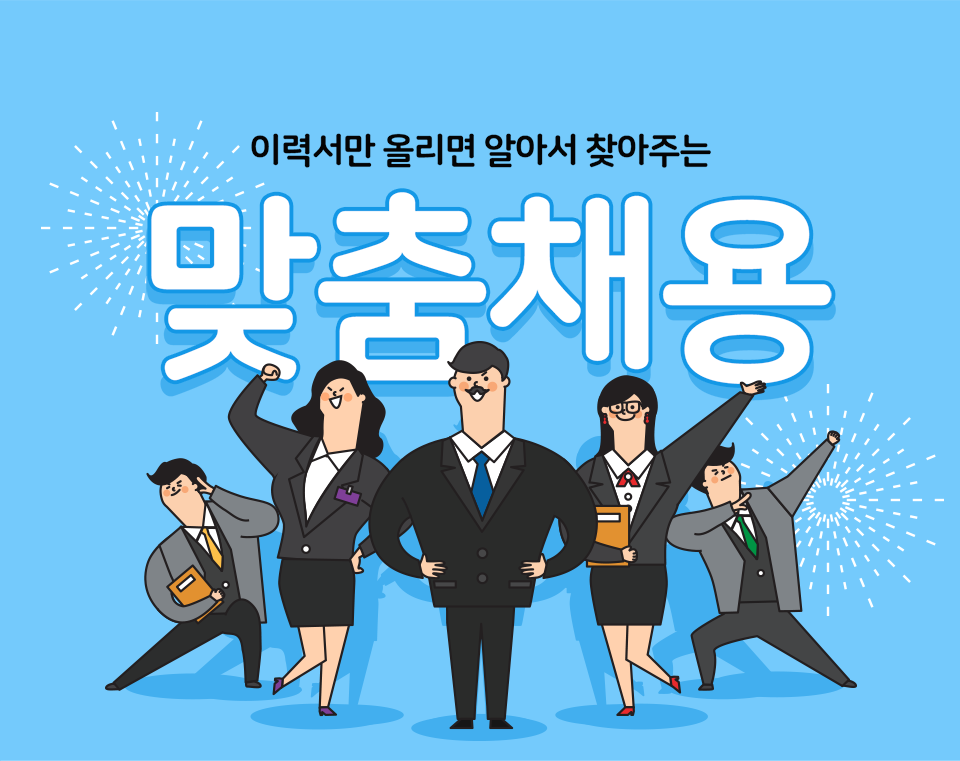
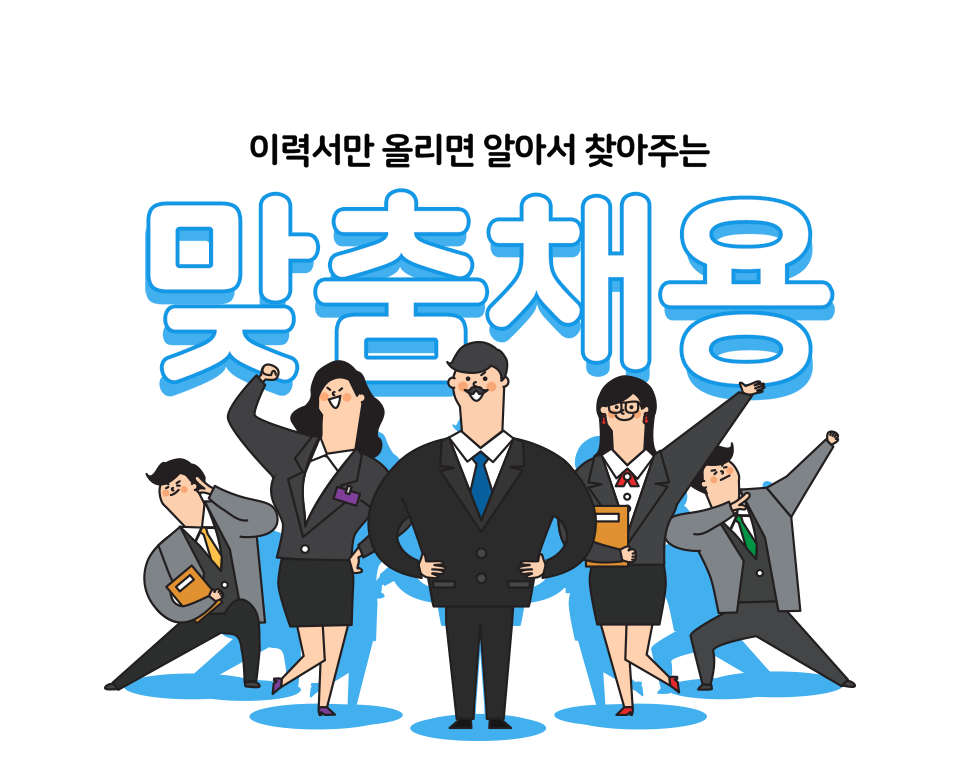
dddd

diff --git a/classB09/css/layout.css b/classB09/css/layout.css
@@ -1,0 +1,30 @@
+/* common */
+body{background: #74cafc;font-family: 'NanumSquareRound',sans-serif;}
+.inner{width:960px;margin: 0 auto;}
+
+/* header */
+.header{}
+
+/* container */
+.container .inner{background: #fff;box-shadow: 23px 23px 13px rgba(39,166,240,0.25) ;overflow: hidden;text-align: center;}
+.container .inner img{box-shadow: 23px 23px 13px rgba(39,166,240,0.25) ;}
+.container .inner .step_list{margin:60px 0 30px;}
+.container .inner .step_list > li{display: inline-block;width:209px;height:209px;padding-top:82px; box-sizing: border-box; background: url(../img/img_circle_01.png) no-repeat center center;vertical-align: middle;}
+.container .inner .step_list > li + li{margin-left:75px;}
+.container .inner .step_list > li + li:before{content: '';display: block;width:31px;height:40px;background: url(../img/img_arr.png) no-repeat;position: absolute; margin-left: -53px;}
+.container .inner .step_list > li strong{font-weight: 800;font-size: 26px;}
+.container .inner .step_list > li p{font-size: 16px;transform: skew(-0.05deg);font-weight: 700;color: #3f3f3f;line-height: 21px;margin-top:8px;}
+.container .inner .txt_help{font-size:18px;line-height: 30px;font-weight: 700;color:#666;padding-bottom: 75px;}
+
+/* footer */
+.footer{position: relative;padding-bottom: 165px;min-width: 960px;}
+.footer:before{content: '';display: block;position: absolute;height: 45px;left:0;right:0;top:0;background: #009cff;box-shadow: 23px 23px 13px rgba(39,166,240,0.25) ;}
+.footer .btn_summit{display: block;position:absolute;left:50%;top:-52px;transform:translate(-50%);box-shadow: 23px 23px 13px rgba(39,166,240,0.25) ; width:302px;height:142px;color:#fff;line-height: 116px;font-size: 30px;font-weight: 700; text-align: center;background: #ff577f;border: 13px solid #fff;box-sizing: border-box;}
+
+@media all and (max-width:768px){
+    .inner{width:auto;}
+    .header .inner > img{width:100%;}
+    .container .inner img{width:100%;}
+    .container .inner .step_list > li{display: block;margin:0 auto;}
+    .container .inner .step_list > li + li{margin-left: auto;}
+}

diff --git a/classB09/index.html b/classB09/index.html
@@ -2,6 +2,7 @@
 <html>
 
 <head>
+	
 	<meta charset="utf-8">
 	<meta name="viewport" content="width=device-width">
 	<title>repl.it</title>
@@ -10,6 +11,40 @@
 </head>
 
 <body>
-	
+	<div class="wrap">
+		<div class="header">
+			<div class="inner">
+				<img src="img/img_top.png" alt="이력서만 올리면 알아서 찾아주는 맞춤채용" />
+			</div>
+		</div>
+		<!-- e:header -->
+
+		<div class="container">
+			<div class="inner">
+				<img src="img/img_box.png" alt="스페셜 기프트, 이력서 파워업 입사지원시 파워업 쿠폰 증정!" />
+				<ul class="step_list">
+					<li>
+						<strong>이력서등록</strong>
+						<p>오타 자동 수정</p>
+					</li>
+					<li>
+						<strong>스마트서치</strong>
+						<p>검증된 데이터로<br />최적의 회사서칭</p>
+					</li>
+					<li>
+						<strong>데이터제공</strong>
+						<p>내게 꼭 맞춤 회사<br />매일 10건 제공</p>
+					</li>
+				</ul>
+				<p class="txt_help">이력서를 등록하면 95% 이상의 만족률과 검증된 데이터 시스템으로 나에게 꼭 맞는 채용공고를 찾아줍니다.<br />
+					매일 10건 이상의 꼭 맞춤 회사를 추천하여 입사지원에 힘을 실어드립니다.</p>
+			</div>
+		</div>
+		<!-- e:container -->
+		<div class="footer">
+			<a href="#" class="btn_summit">입사지원 하러가기</a>
+		</div>
+		<!-- e:footer -->
+	</div>
 </body>
 </html>

diff --git a/classB08/css/main.css b/classB08/css/main.css
@@ -90,10 +90,10 @@
     height:89px;
     background: url(../img/main/img_market_best.png) no-repeat center center;
 }
-.section.market .bx-wrapper .bx-viewport{}
-.section.market .bx-wrapper .bx-pager {}
-.section.market .bx-wrapper .bx-pager.bx-default-pager a {}
-.section.market .bx-wrapper .bx-pager.bx-default-pager a.active {}
+.section.market .bx-wrapper .bx-viewport {border:0;background:transparent;box-shadow:0 0 0;}
+.section.market .bx-wrapper .bx-pager {padding-top:0; bottom: 83px; width: 228px;}
+.section.market .bx-wrapper .bx-pager.bx-default-pager a {margin:0 5px;width:20px;height:20px; border-radius: 100%; border:4px solid #54D3D4; background: #2A8291; box-sizing: border-box;}
+.section.market .bx-wrapper .bx-pager.bx-default-pager a.active {border-color: #333; background: transparent}
 
 /***** pick *****/
 .section.pick{}

diff --git a/classB09/css/reset.css b/classB09/css/reset.css
@@ -1,4 +1,4 @@
-
+@import url('//cdn.rawgit.com/innks/NanumSquareRound/master/nanumsquareround.min.css');
 
 /* reset */
 html, body, div, span, applet, object, iframe,h1, h2, h3, h4, h5, h6, p, blockquote, pre,a, abbr, acronym, address, big, cite, code,del, dfn, em, img, ins, kbd, q, s, samp,small, strike, strong, sub, sup, tt, var,b, u, i, center,dl, dt, dd, ol, ul, li,fieldset, form, label, legend,table, caption, tbody, tfoot, thead, tr, th, td,article, aside, canvas, details, embed, figure, figcaption, footer, header, hgroup, menu, nav, output, ruby, section, summary,time, mark, audio, video {
